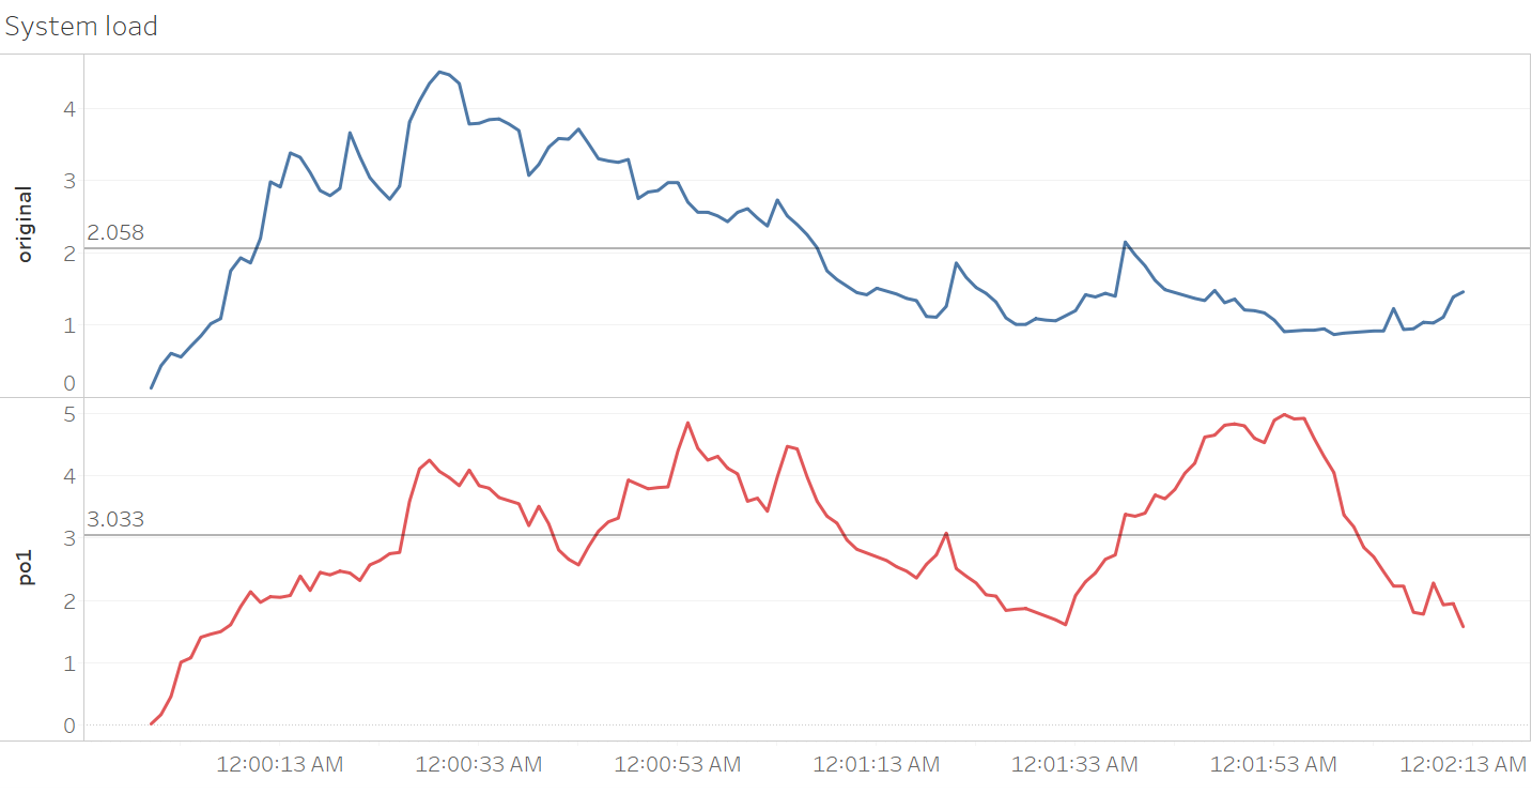
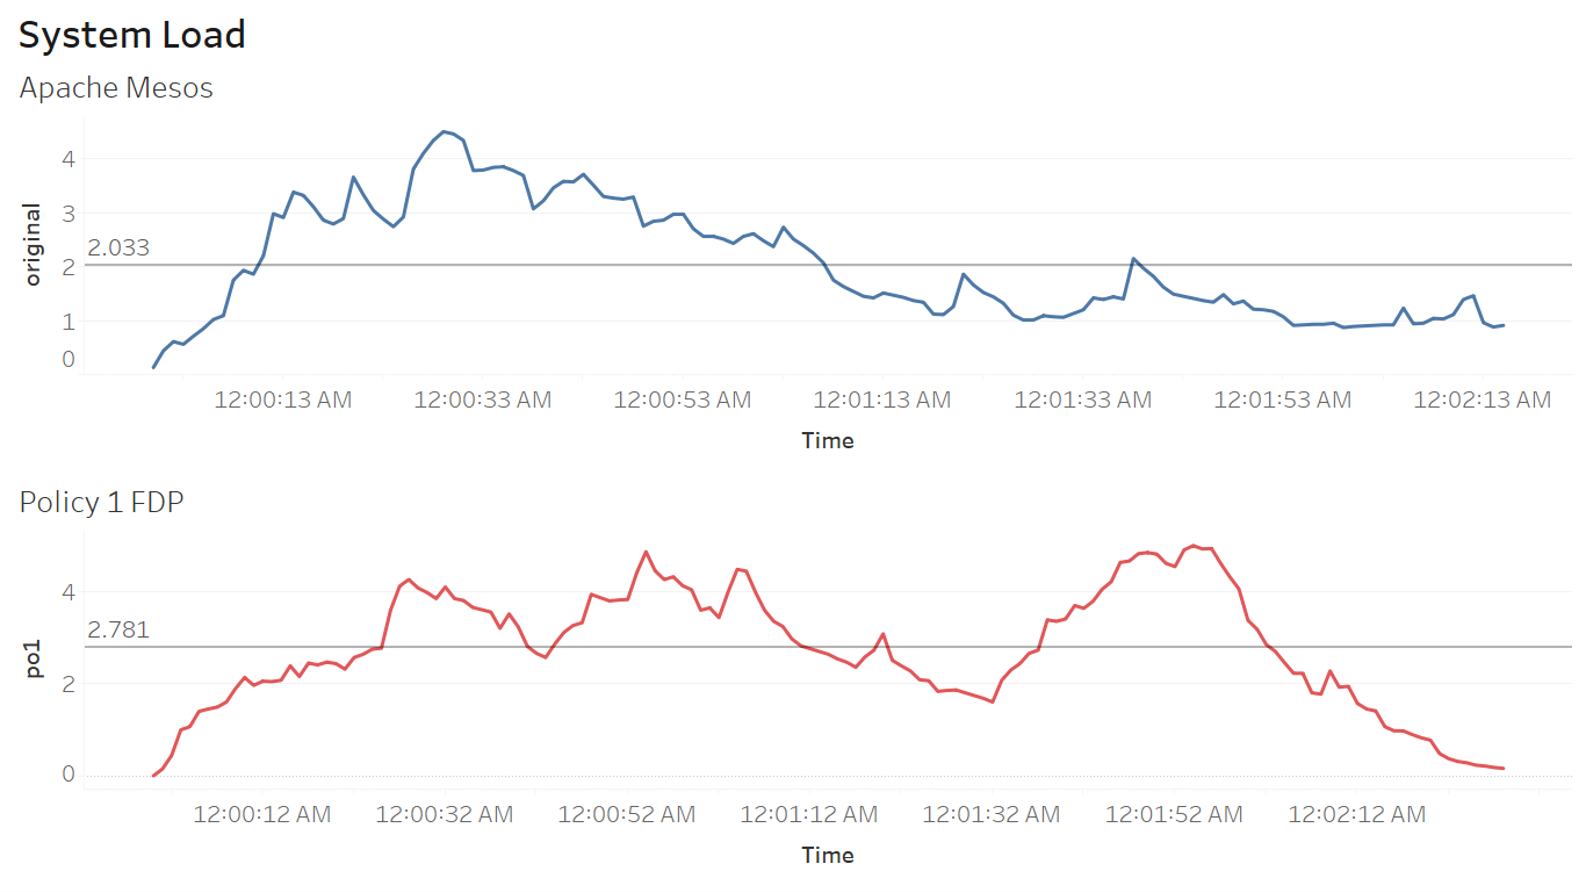
edit

diff --git a/undergrad-sample-english.tex b/undergrad-sample-english.tex
@@ -1022,9 +1022,9 @@ This project also considered these other matrices after applying this policy:
    \hline
    \textbf{} & \textbf{Before} & \textbf{After} \\ 
    \hline
-   \textbf{CPU} & 80.23\% & 80.53\% \\ 
+   \textbf{CPU} & 78.31\% & 77.30\% \\ 
    \hline
-   \textbf{Memory} & 39.46\% & 44.40\% \\ 
+   \textbf{Memory} & 37.83\% & 40.43\% \\ 
    \hline                     
   \end{tabular}
 \end{table}
@@ -1046,7 +1046,7 @@ This project also considered these other matrices after applying this policy:
 %%% po1 load
   \item \textbf{System load}
   
-\hspace{10mm}The result of system load in this cluster before and after used this policy is shown in \textbf{Figure}~\ref{fig:load1}. System load average before using FDP is 2.085 and after is 3.033. So, system is busier when applied this policy.
+\hspace{10mm}The result of system load in this cluster before and after used this policy is shown in \textbf{Figure}~\ref{fig:load1}. System load average before using FDP is 2.033 and after is 2.781. So, system is busier when applied this policy.
   
 \begin{figure}[!h]\centering
     \setlength{\fboxrule}{0mm} % can define this in the preamble
@@ -1108,14 +1108,14 @@ This project also considered these other matrices after applying this policy:
 \hspace{10mm}The averages of CPU and memory utilization of cluster framework before and after used this policy is shown in \textbf{Table}~\ref{tbl:po2CPUMem}. From the table, both CPU and memory utilization average were decreased after used this policy. The amounts of CPU and memory utilization before and after used this policy in each time is shown in \textbf{Figure}~\ref{fig:cpu2} and \textbf{Figure}~\ref{fig:mem2}. 
   
   \begin{table}[!h]
-  \caption{Average of CPU and memory utilization before and after using FDP.}\label{tbl:po2CPUMem}
+  \caption{Average of CPU and memory utilization before and after using Success Rate Prediction.}\label{tbl:po2CPUMem}
   \begin{tabular}{@{}|p{0.2\textwidth}|p{0.35\textwidth}|p{0.35\textwidth}|}
    \hline
    \textbf{} & \textbf{Before} & \textbf{After} \\ 
    \hline
-   \textbf{CPU} & 80.23\% & 43.73\% \\ 
+   \textbf{CPU} & 78.31\% & 41.67\% \\ 
    \hline
-   \textbf{Memory} & 39.46\% & 22.04\% \\ 
+   \textbf{Memory} & 37.93\% & 23.32\% \\ 
    \hline                     
   \end{tabular}
 \end{table}
@@ -1138,7 +1138,7 @@ This project also considered these other matrices after applying this policy:
 %%% po2 load
   \item \textbf{System load}
   
-\hspace{10mm}The result of system load in this cluster before and after used this policy is shown in \textbf{Figure}~\ref{fig:load2}. System load average before using FDP is 2.058 and after is 1.188. So, system is less busy when applied this policy.
+\hspace{10mm}The result of system load in this cluster before and after used this policy is shown in \textbf{Figure}~\ref{fig:load2}. System load average before using Success Rate Prediction is 2.033 and after is 1.169. So, system is less busy when applied this policy.
   
 \begin{figure}[!h]\centering
     \setlength{\fboxrule}{0mm} % can define this in the preamble
@@ -1202,9 +1202,9 @@ This project also considered these other matrices after applying this policy:
    \hline
    \textbf{} & \textbf{Before} & \textbf{After} \\ 
    \hline
-   \textbf{CPU} & 80.23\% & 45.73\% \\ 
+   \textbf{CPU} & 78.31\% & 39.12\% \\ 
    \hline
-   \textbf{Memory} & 39.46\% & 26.33\% \\ 
+   \textbf{Memory} & 37.93\% & 24.21\% \\ 
    \hline                     
   \end{tabular}
 \end{table}
@@ -1227,7 +1227,7 @@ This project also considered these other matrices after applying this policy:
 %%%po3 load
   \item \textbf{System load}
   
-\hspace{10mm}The result of system load in this cluster before and after used this policy is shown in \textbf{Figure}~\ref{fig:load3}. System load average before using FDP is 2.058 and after is 0.579. So, system is less busy when applied this policy.
+\hspace{10mm}The result of system load in this cluster before and after used this policy is shown in \textbf{Figure}~\ref{fig:load3}. System load average before using FDP is 2.033 and after is 0.635. So, system is less busy when applied this policy.
   
 \begin{figure}[!h]\centering
     \setlength{\fboxrule}{0mm} % can define this in the preamble
@@ -1255,13 +1255,13 @@ This project also considered these other matrices after applying this policy:
    \hline
    \textbf{Policy} & \textbf{Fairness} & \textbf{Number of failed tasks (tasks)} & \textbf{Average of CPU utilization} & \textbf{Average of Memory utilization} & \textbf{Average of System load (tasks)} & \textbf{Running Time(min)} \\
    \hline
-   \textbf{Original Apache Mesos}& 0.3736 & 34& 80.23\% & 39.46\% &2.083& 24.26 \\
+   \textbf{Original Apache Mesos}& 0.3736 & 36& 78.31\% & 37.93\% &2.033& 24.26 \\
    \hline
-   \textbf{First demand policy} & 0.257& 35& 80.75\% & 40.40\% & 3.067& 24.26\\
+   \textbf{First demand policy} & 0.257& 40& 77.30\% & 40.43\% & 2.781& 24.26\\
    \hline
-   \textbf{Success Rate Prediction}& 0.147& 20& 43.73\% & 22.04\%& 1.188& 34.37 \\
+   \textbf{Success Rate Prediction}& 0.147& 25& 41.67\% & 23.32\%& 1.169& 34.37 \\
    \hline
-   \textbf{Hybrid Policy} & 0.1293 & 8 & 45.73\% & 26.33\% & 0.579  & 35.17 \\ 
+   \textbf{Hybrid Policy} & 0.1293 & 11 & 39.12\% & 24.21\% & 0.635  & 35.17 \\ 
    \hline                   
   \end{tabular}
 \end{table}
@@ -1277,15 +1277,22 @@ This project also considered these other matrices after applying this policy:
 \section{Result and Discussion}
 \hspace{10mm}Three policies attached to NKR-scheduler have been evaluated in this project. The tasks were submitted to NKR-scheduler. After \textbf{First Demand Policy}was applied, the fairness in system was improved by 31.2\% and the other metrics such as CPU utilization, memory utilization, failure rate, etc., had no improvement. The result did not show performance improvement as expected, and it was found that fairness has a correlation with failure task. The second experiment applied \textbf{Success Rate Prediction}. The failure rate was decreased by nearly 7.3\% and the other metrics were significantly improved. However, the failure rate reduction did not meet the criteria as expected, and the improvement of fairness was insignificant. Therefore, the last policy called \textbf{Hybrid Policy} was developed. The result shown that the failure rate was decreased by 15.3\% and the other metric were also improved. After simulated task were scheduling, it was found that Spark was configured with a relatively greedier scheduling policy compared to the other frameworks. This type of scheduling can significantly affect the other frameworks to manage resources utilization. As a result, Spark can run more tasks at the beginning and come with the highest number of success tasks compared to other frameworks, whereas other frameworks required much more time to complete and caused higher failure rate. 
 
-\hspace{10mm}In the result of First Demand Policy, it was found that the success  rate decreased along with the decreasing of fairness. Success Rate Prediction focused on predicting the failure rate of incoming tasks, and the result of this policy shown the improvement of success rate and fairness.   If incoming tasks have high probability to be failed tasks, it will have more time to classify the type of tasks and modify the resources utilization. Therefore, both time and fairness are two factors that affect the failure rate. The result of Hybrid Policy proved that these two factors can improve the success rate of tasks.
+\hspace{10mm}In the result of First Demand Policy, it shown that the success rate decreased along with the decreasing of fairness. Success Rate Prediction focused on predicting the failure rate of incoming tasks, and the result of this policy shown the improvement of success rate and fairness. If incoming tasks have high probability to be failed tasks, it will have more time to classify the type of tasks and modify the resources utilization. Therefore, both increased time and fairness are two factors that directly affect to failure rate. The result of Hybrid Policy proved that these two factors can improve the success rate of tasks
 
 %%%%%%%%%% Conclusion %%%%%%%%%%%%
 \section{Conclusion}
 \hspace{10mm}There are many factors that can cause task failure, for example, lack of resources or greedy framework receive resources more than its fair share resources. In this project, it proposes NKR-scheduler that can be used with adaptive policies. The policies mainly classify into three parts, fairness algorithm called First Demand Policy (FDP), AI for failure detection called Success Rate Prediction, and Hybrid Policy. FDP considers both demands of each framework and their dominant share that come from cluster monitoring to decide which task to be dispatched. Success Rate Prediction dispatch the incoming task based on random forest model by predicting the failure rate of task. Hybrid Policy combines previous two policies together. The simulation tasks are building model, genetic algorithm, SQL query and text classification with vary the resource on each task randomly. These tasks are typical data science tasks of each framework. So, this work found that Hybrid Policy decreased the number of failed tasks by 15.3\%
 
+\newpage
 %%%%%%%%%% Future work %%%%%%%%%%%%
 \section{Future work}
-\hspace{10mm}To improve this project, finding the mathematics formula that can explain how time and fairness affect to failure rate of task is one thing that could do, and extended the project by building new policy that design to check the available resources or using AI to check another metrics on each agent is the other thing. It would be useful for those who want to study about the trade-offs between demand aware scheduling in a production environment, where hundreds of agents configured.
+\hspace{10mm}There are some questions that was found along the test run but not include in this project report. Future works are needed to clarify the following issues. 
+\begin{itemize}
+  \item Finding the mathematics formula to prove how time and fairness factors affect the failure rate
+  \item Building new policy to check the available resources
+  \item Using AI to check additional metrics on each agent
+  \item Finding total run time when reconfigure Apache Mesos to resubmitted the failed task and comparing the result with Hybrid policy in order to find trade-off between resubmitted time and time using to predict incoming task. 
+\end{itemize}
 
 %%%%%%%%%%%%%%%%%%%%%%%%%%%%%%%%%%%%%%%%%%%%%%%%%%%%%
 %%%%%%%%%%%%%%%%%%%% Bibliography %%%%%%%%%%%%%%%%%%%%%%%%%%%%%
